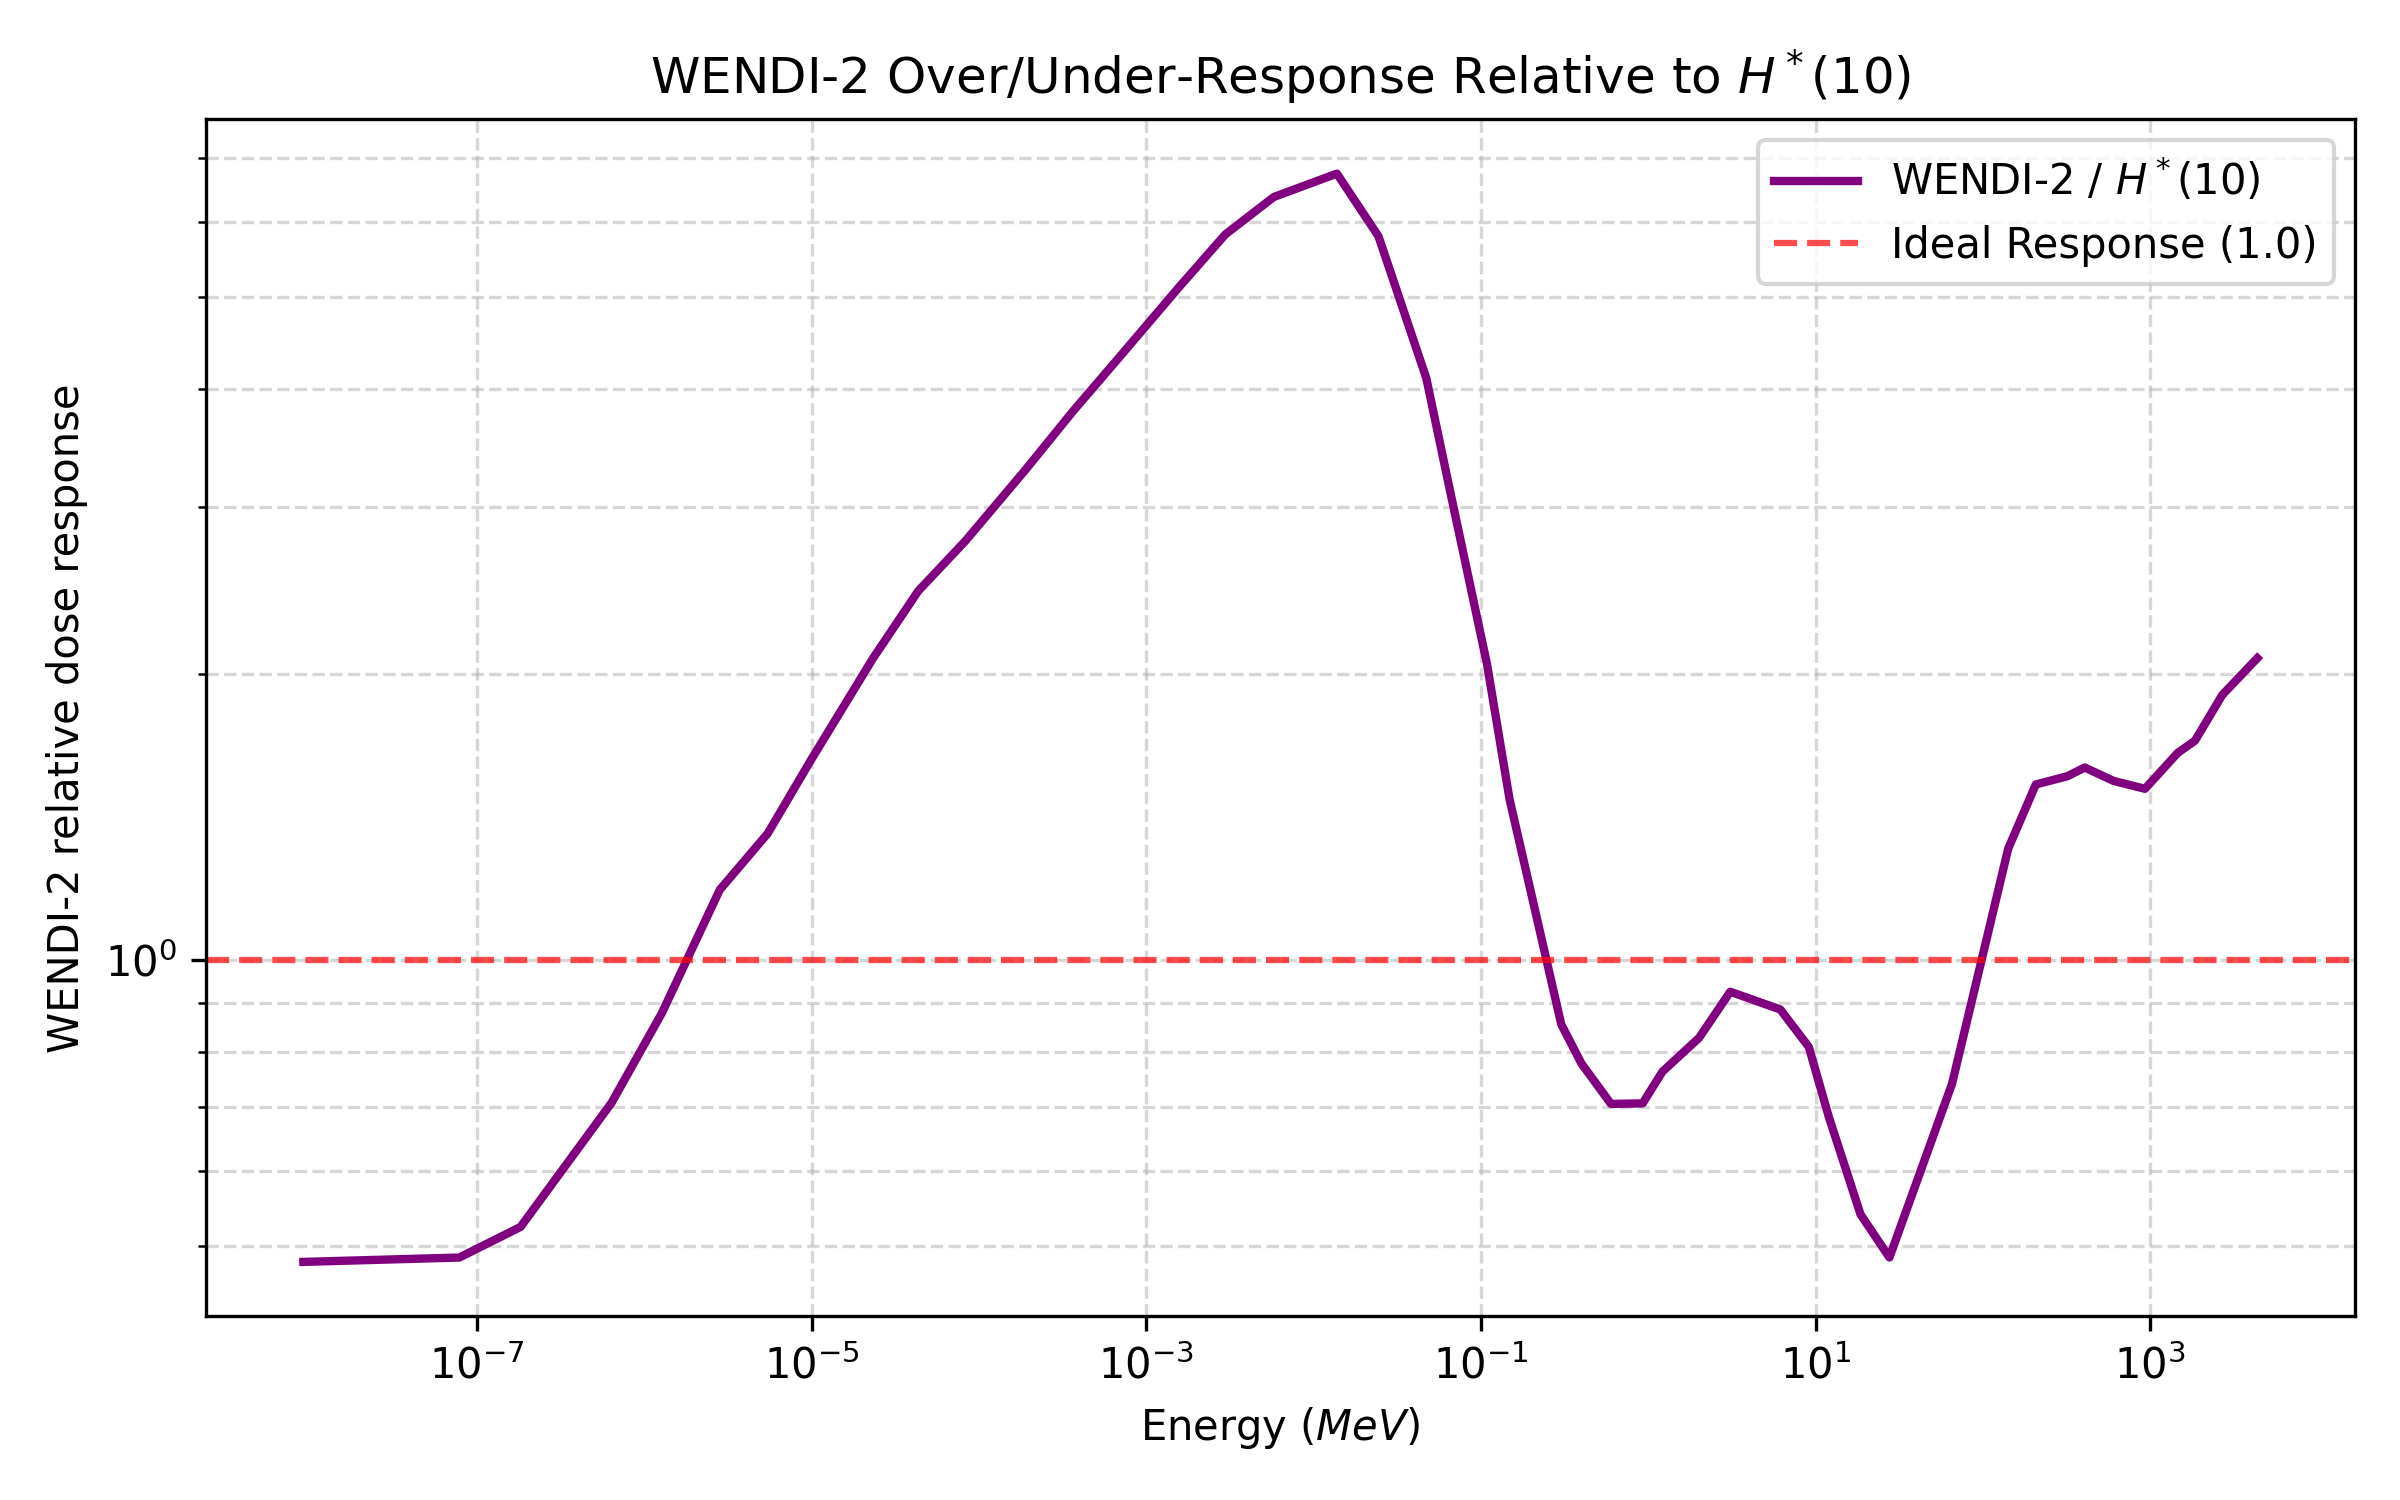
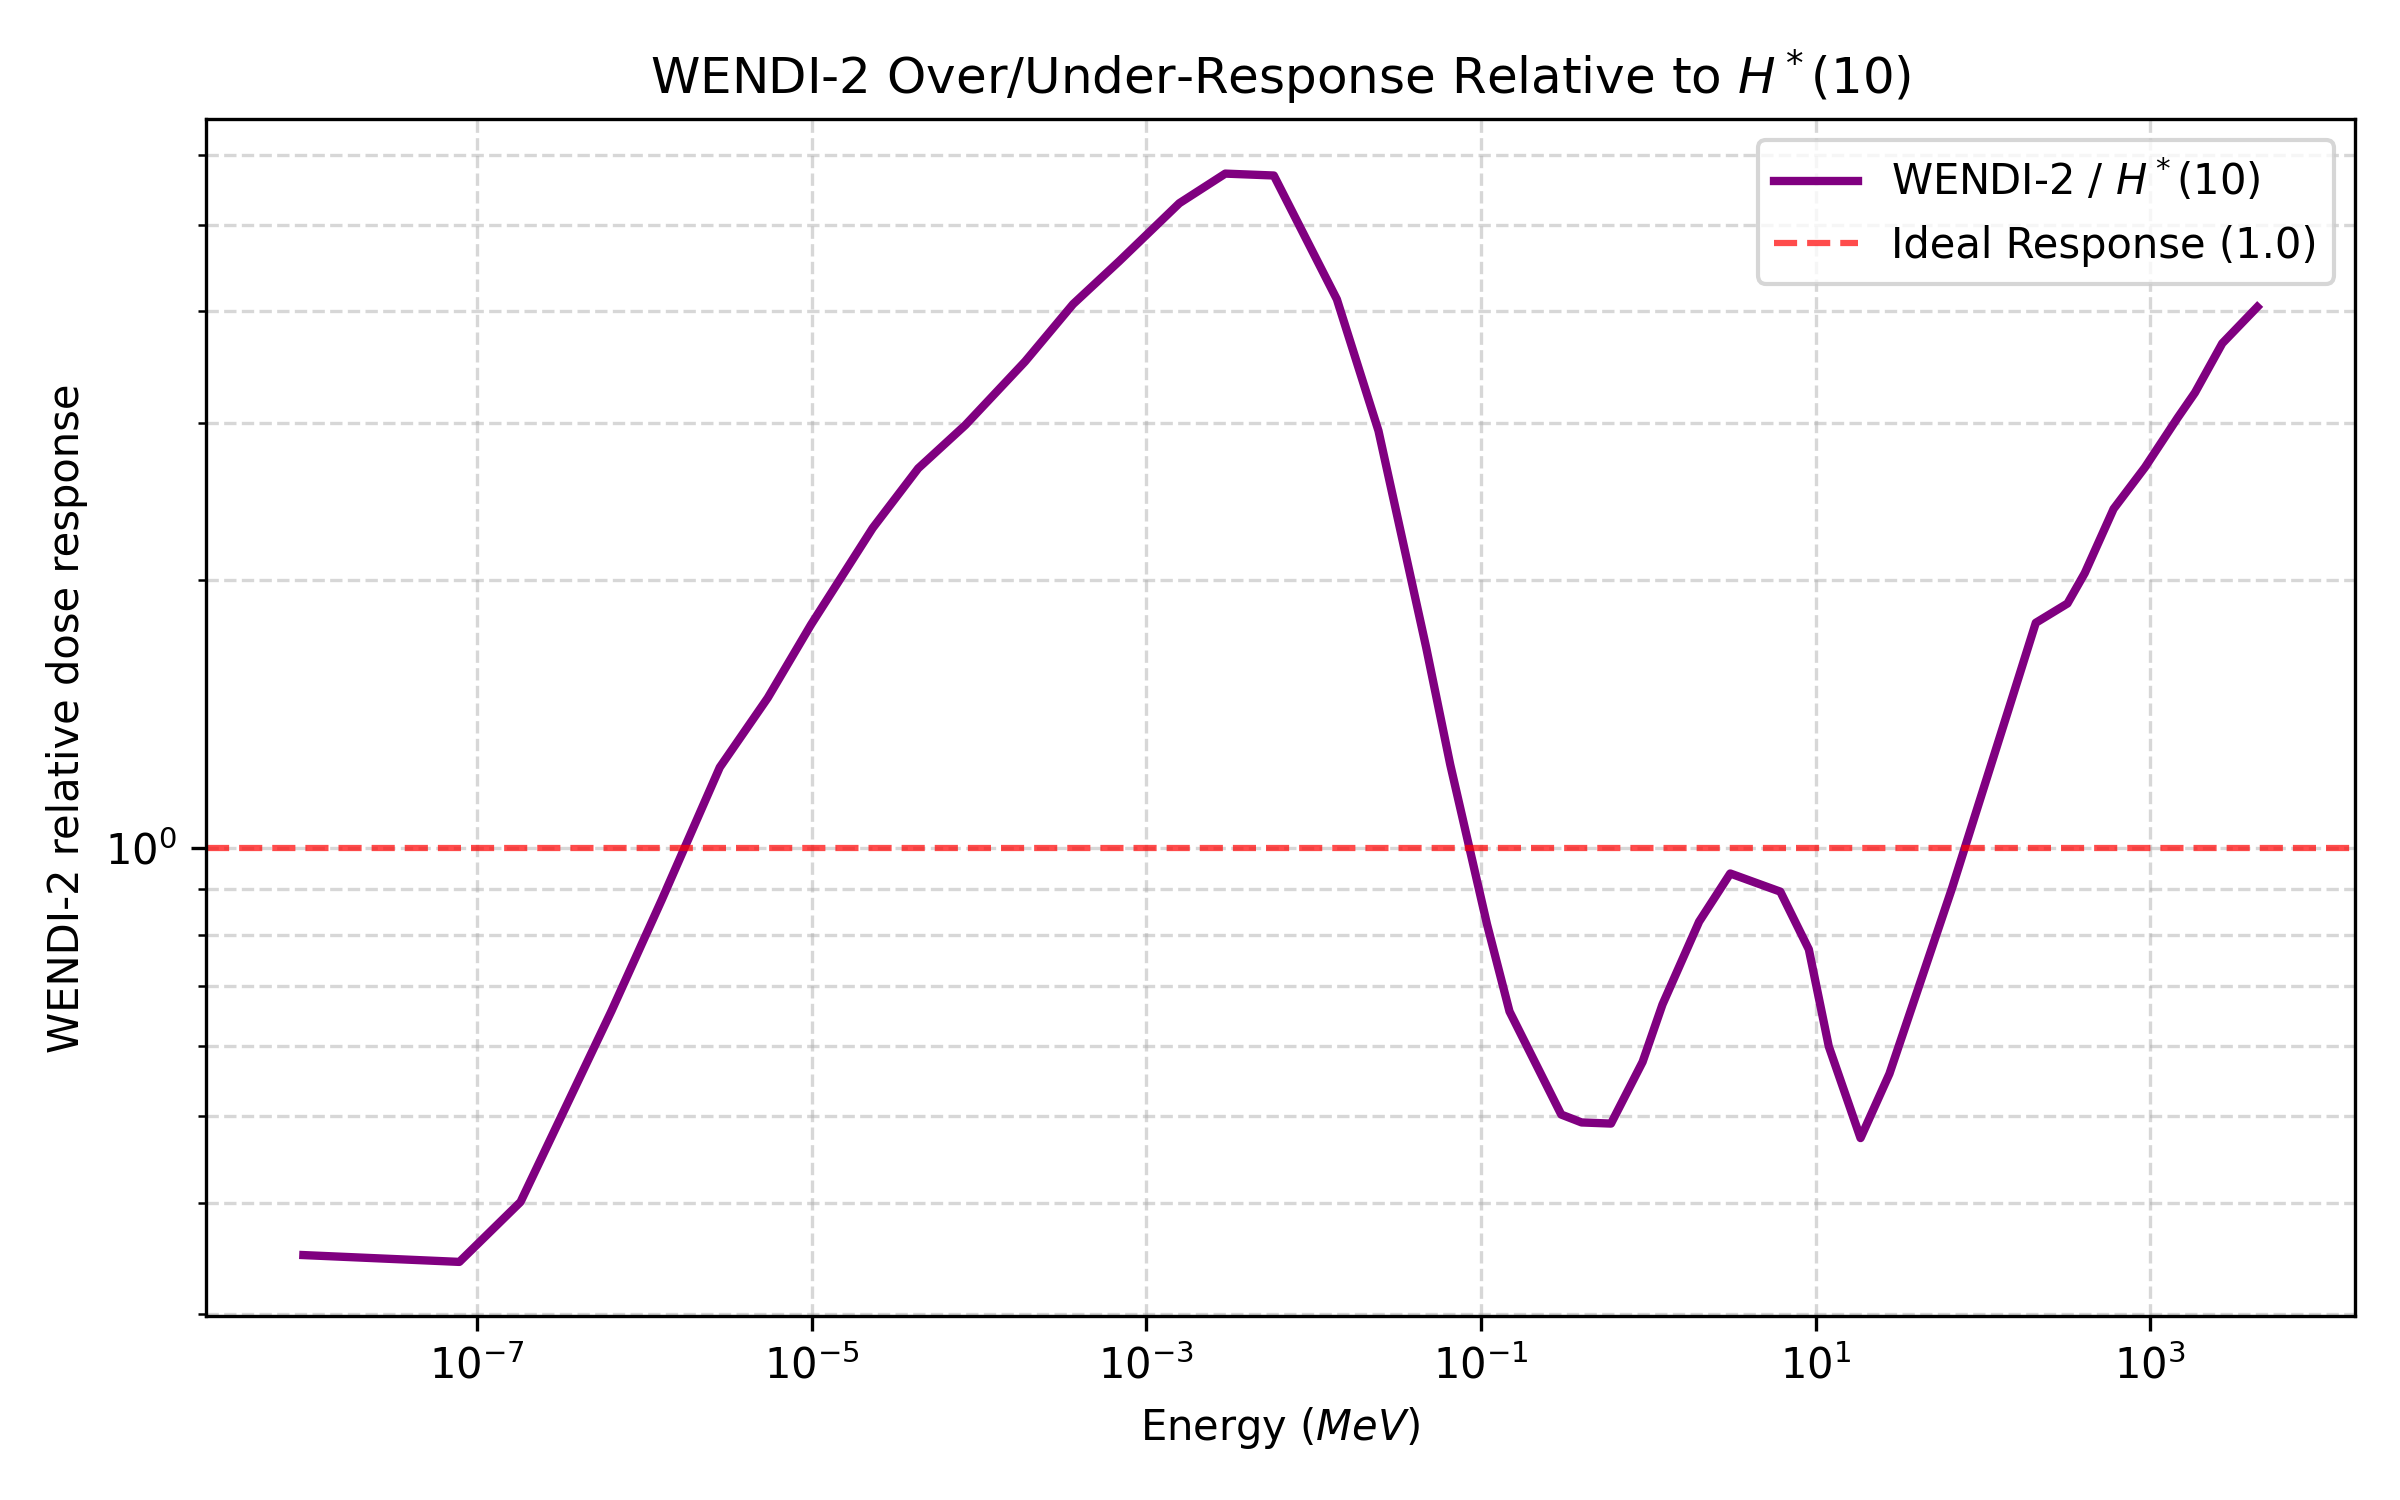
Add ICRP74 neutron conv factor to WENDI
Add the ICRP74 neutron fluence to dose convertion factor coupled with
the high-energy Pelliccioni extension in the WENDI2-NeutronFolding.py
code to compute the correction of the WENDI. Convertion factors for
neutrons are now identical to the ones for the LUPIN correction.

diff --git a/SwissFEL25/WENDI2_responsefolding/neutronresponse/WENDI2-NeutronFolding.py b/SwissFEL25/WENDI2_responsefolding/neutronresponse/WENDI2-NeutronFolding.py
@@ -74,9 +74,68 @@ plt.savefig('fluence_plot.png', dpi=300)
 
 # This is the fluence to H*(10) convertion function in pSVcm2, energy bins in MeV
 # Numbers are taken from "MCNPX SIMULATIONS OF THE RESPONSE OF THE EXTENDED-RANGE REM METER WENDI-2", DOI:10.2298/NTRP140SS25S
-energy_fluence_to_H10_function = [9.492218410280988e-9, 7.79370003310337e-8, 1.8450523636359488e-7, 6.391572541760222e-7, 0.000001196590178695872, 0.0000027823102149957592, 0.000005307285683717842, 0.000010231106652003436, 0.000023278138167773893, 0.000042483917203395035, 0.00008076191527801742, 0.00018928383651851429, 0.0003635068849352923, 0.0006903189177272841, 0.0015915557824633265, 0.002983585657778197, 0.005645429347979109, 0.012824224181601233, 0.02477975812960878, 0.04713481248081918, 0.06763915344644195, 0.11162795508530567, 0.14910430495168958, 0.2021168295695759, 0.2825530174737817, 0.3761227679543664, 0.5621630080012422, 0.8581092921177734, 1.193311490116029, 1.9315797200635523, 3.0635427165248004, 5.924792950263549, 10.620032233831877, 15.879348937441032, 25.5432651555736, 37.24580147079381, 60.24223934384477, 92.0448653985943, 117.69899660418108, 169.5378901352275, 315.4687877287317, 401.7072772240769, 484.8280013467348, 592.2872514265484, 775.1935095763772, 938.3016521377199, 1371.130530716348, 1805.7079793741932, 2623.723141019056, 4015.405527485102]
+#energy_fluence_to_H10_function = [9.492218410280988e-9, 7.79370003310337e-8, 1.8450523636359488e-7, 6.391572541760222e-7, 0.000001196590178695872, 0.0000027823102149957592, 0.000005307285683717842, 0.000010231106652003436, 0.000023278138167773893, 0.000042483917203395035, 0.00008076191527801742, 0.00018928383651851429, 0.0003635068849352923, 0.0006903189177272841, 0.0015915557824633265, 0.002983585657778197, 0.005645429347979109, 0.012824224181601233, 0.02477975812960878, 0.04713481248081918, 0.06763915344644195, 0.11162795508530567, 0.14910430495168958, 0.2021168295695759, 0.2825530174737817, 0.3761227679543664, 0.5621630080012422, 0.8581092921177734, 1.193311490116029, 1.9315797200635523, 3.0635427165248004, 5.924792950263549, 10.620032233831877, 15.879348937441032, 25.5432651555736, 37.24580147079381, 60.24223934384477, 92.0448653985943, 117.69899660418108, 169.5378901352275, 315.4687877287317, 401.7072772240769, 484.8280013467348, 592.2872514265484, 775.1935095763772, 938.3016521377199, 1371.130530716348, 1805.7079793741932, 2623.723141019056, 4015.405527485102]
 
-fluence_to_H10_function = [6.466250424686161, 8.799679730059975, 10.311071254352676, 12.550073554335057, 13.110995769306358, 13.04732071640402, 12.938089587841061, 12.36783915759269, 11.533934092774762, 10.919057066048893, 10.306481384258957, 9.570783817289552, 9.149872743451809, 8.556373881792219, 8.014033284880584, 7.680080716074246, 7.548324338039095, 7.711408181310479, 10.092721735729185, 15.751225781458523, 22.92952436337824, 39.43955380203264, 58.34955046204815, 85.68835482460437, 129.1868168874242, 168.6254770987624, 231.96883530095405, 318.4074658501491, 370.05932308196606, 419.7154323430968, 416.52189589866686, 404.15489820942605, 400.77134563145006, 470.27585035359493, 592.2088584676992, 515.0339239286063, 405.1138282879553, 319.4097514591874, 283.28833951915, 242.9008838853542, 303.56107190068565, 343.66199531090075, 413.0752985273366, 478.6141706126125, 562.9223957316359, 651.3011760820857, 723.0153836888301, 790.8497596100315, 854.9824782620643, 935.9175337863275]
+#fluence_to_H10_function = [6.466250424686161, 8.799679730059975, 10.311071254352676, 12.550073554335057, 13.110995769306358, 13.04732071640402, 12.938089587841061, 12.36783915759269, 11.533934092774762, 10.919057066048893, 10.306481384258957, 9.570783817289552, 9.149872743451809, 8.556373881792219, 8.014033284880584, 7.680080716074246, 7.548324338039095, 7.711408181310479, 10.092721735729185, 15.751225781458523, 22.92952436337824, 39.43955380203264, 58.34955046204815, 85.68835482460437, 129.1868168874242, 168.6254770987624, 231.96883530095405, 318.4074658501491, 370.05932308196606, 419.7154323430968, 416.52189589866686, 404.15489820942605, 400.77134563145006, 470.27585035359493, 592.2088584676992, 515.0339239286063, 405.1138282879553, 319.4097514591874, 283.28833951915, 242.9008838853542, 303.56107190068565, 343.66199531090075, 413.0752985273366, 478.6141706126125, 562.9223957316359, 651.3011760820857, 723.0153836888301, 790.8497596100315, 854.9824782620643, 935.9175337863275]
+
+# --- ICRP 74 standard reference values for neutrons ---
+icrp74_energy_mev = np.array([
+    1.00e-09, 1.00e-08, 2.53e-08, 1.00e-07, 2.00e-07, 5.00e-07, 1.00e-06,
+    2.00e-06, 5.00e-06, 1.00e-05, 2.00e-05, 5.00e-05, 1.00e-04, 2.00e-04,
+    5.00e-04, 1.00e-03, 2.00e-03, 5.00e-03, 1.00e-02, 2.00e-02, 3.00e-02,
+    5.00e-02, 7.00e-02, 1.00e-01, 1.50e-01, 2.00e-01, 3.00e-01, 5.00e-01,
+    7.00e-01, 9.00e-01, 1.00e+00, 1.20e+00, 2.00e+00, 3.00e+00, 4.00e+00,
+    5.00e+00, 6.00e+00, 7.00e+00, 8.00e+00, 9.00e+00, 1.00e+01, 1.20e+01,
+    1.40e+01, 1.50e+01, 1.60e+01, 1.80e+01, 2.00e+01, 3.00e+01, 5.00e+01,
+    7.50e+01, 1.00e+02, 1.25e+02, 1.50e+02, 1.75e+02, 2.01e+02
+])
+
+icrp74_h10_sv_cm2 = np.array([
+    6.60e-12, 9.00e-12, 1.06e-11, 1.29e-11, 1.35e-11, 1.36e-11, 1.33e-11,
+    1.29e-11, 1.20e-11, 1.13e-11, 1.06e-11, 9.90e-12, 9.40e-12, 8.90e-12,
+    8.30e-12, 7.90e-12, 7.70e-12, 8.00e-12, 1.05e-11, 1.66e-11, 2.37e-11,
+    4.11e-11, 6.00e-11, 8.80e-11, 1.32e-10, 1.70e-10, 2.33e-10, 3.22e-10,
+    3.75e-10, 4.00e-10, 4.16e-10, 4.25e-10, 4.20e-10, 4.12e-10, 4.08e-10,
+    4.05e-10, 4.00e-10, 4.05e-10, 4.09e-10, 4.20e-10, 4.40e-10, 4.80e-10,
+    5.20e-10, 5.40e-10, 5.55e-10, 5.70e-10, 6.00e-10, 5.15e-10, 4.00e-10,
+    3.30e-10, 2.85e-10, 2.60e-10, 2.45e-10, 2.50e-10, 2.60e-10
+])
+
+# --- Pelliccioni high-energy extension values for neutrons ---
+pelliccioni_energy_mev = np.array([
+    2.5e-08, 1.0e-03, 1.0e-01, 1.0e+00, 5.0e+00, 1.0e+01, 1.5e+01, 1.9e+01,
+    2.0e+01, 5.0e+01, 1.0e+02, 2.0e+02, 5.0e+02, 1.0e+03, 5.0e+03, 1.0e+04,
+    1.0e+05, 1.0e+06, 1.0e+07
+])
+
+pelliccioni_h10_sv_cm2 = np.array([
+    1.04e-11, 8.62e-12, 1.08e-10, 4.92e-10, 4.26e-10, 4.63e-10, 5.08e-10,
+    5.56e-10, 5.26e-10, 3.59e-10, 2.62e-10, 2.21e-10, 2.90e-10, 3.77e-10,
+    4.92e-10, 5.23e-10, 4.99e-10, 7.17e-10, 1.16e-09
+])
+
+# --- Merge datasets: ICRP74 up to 20 MeV, Pelliccioni above 20 MeV ---
+# Filter ICRP74 data up to 20.0 MeV (inclusive)
+icrp_mask = icrp74_energy_mev <= 20.0
+
+# Filter Pelliccioni data strictly above 20.0 MeV
+pell_mask = pelliccioni_energy_mev > 20.0
+
+icru_energy_mev = np.concatenate([
+    icrp74_energy_mev[icrp_mask],
+    pelliccioni_energy_mev[pell_mask]
+])
+
+icru_h10_sv_cm2 = np.concatenate([
+    icrp74_h10_sv_cm2[icrp_mask],
+    pelliccioni_h10_sv_cm2[pell_mask]
+])
+
+# --- Convert Sv * cm^2 to pSv * cm^2 (1 Sv = 1e12 pSv) ---
+icru_h10_psv_cm2 = icru_h10_sv_cm2 * 1e12
+
+energy_fluence_to_H10_function = icru_energy_mev
+fluence_to_H10_function = icru_h10_psv_cm2
 
 # This is the WENDI-2 dose response function in pSVcm2, energy bins in MeV
 # Numbers are taken from "MCNPX SIMULATIONS OF THE RESPONSE OF THE EXTENDED-RANGE REM METER WENDI-2", 10.2298/NTRP140SS25S
